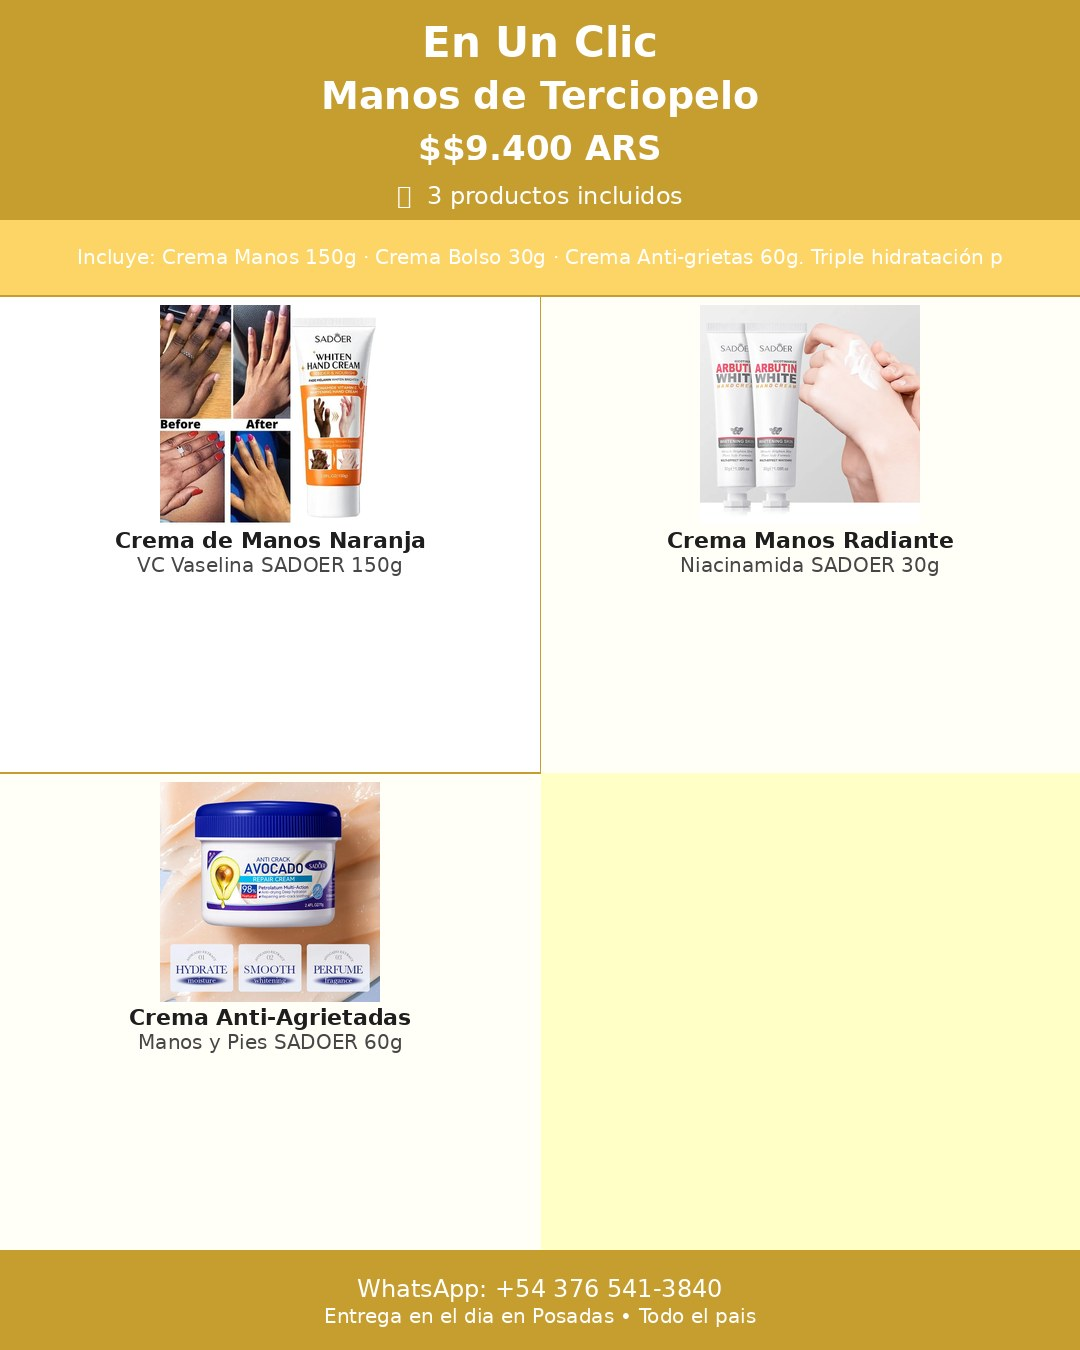
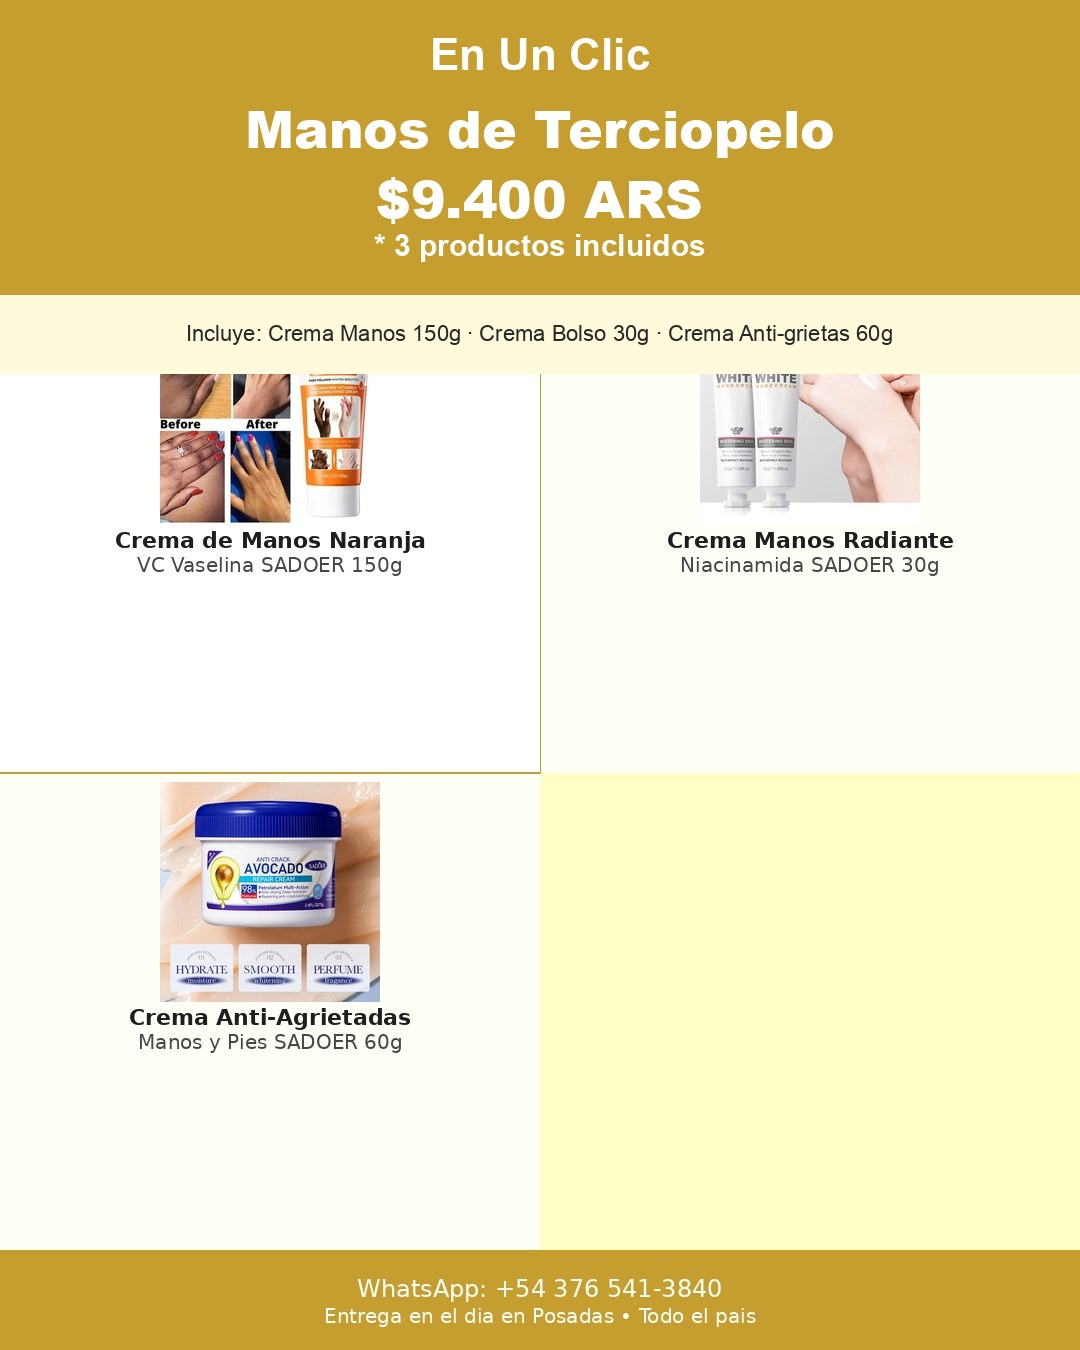
fix(images): pixel-based text wrap — elimina truncado en descripciones y doble $$ en precio

Changed region(s): [[0.0, 0.0, 1.0, 0.28]]

diff --git a/generate_previews.py b/generate_previews.py
@@ -147,6 +147,22 @@ def centered_text(draw, text, y, font_obj, color, width=W):
     tw = bbox[2] - bbox[0]
     draw.text(((width - tw) // 2, y), text, font=font_obj, fill=color)
 
+def pixel_wrap(text, draw, font, max_px):
+    """Wrap text at actual rendered pixel width — avoids cutoff on any font/size."""
+    words = text.split()
+    lines, cur = [], ""
+    for w in words:
+        test = cur + (" " if cur else "") + w
+        bb = draw.textbbox((0, 0), test, font=font)
+        if bb[2] > max_px and cur:
+            lines.append(cur)
+            cur = w
+        else:
+            cur = test
+    if cur:
+        lines.append(cur)
+    return lines
+
 def price_str(p):
     """$72.000  (punto como miles, sin doble $$)"""
     return f"${p:,.0f}".replace(",", ".")
@@ -179,10 +195,9 @@ def generate_combos_catalog():
     for i, combo in enumerate(combos):
         draw.text((margin_l, y + 10), combo["name"], font=f_name, fill=DARK_TEXT)
 
-        desc = combo["description"]
-        if len(desc) > 62:
-            desc = desc[:59] + "…"
-        draw.text((margin_l, y + 54), desc, font=f_desc, fill=LIGHT_TEXT)
+        desc_lines = pixel_wrap(combo["description"], draw, f_desc, 740)
+        for li, dl in enumerate(desc_lines[:3]):
+            draw.text((margin_l, y + 54 + li * 30), dl, font=f_desc, fill=LIGHT_TEXT)
 
         p_text = price_str(combo["price"])
         bbox   = draw.textbbox((0, 0), p_text, font=f_price)
@@ -201,8 +216,13 @@ def generate_combos_catalog():
 
 
 def fix_individual_headers():
-    """Repinta el header de cada ficha individual (corrige $$ y mantiene fotos)."""
-    HEADER_H = 295
+    """Repinta el header y banda de descripción de cada ficha individual."""
+    HEADER_H    = 295
+    DESC_BAND_H = 78
+    DESC_BG     = (255, 250, 220)  # champagne claro
+    f_desc_band = fnt(FONT_REG, 22)
+    MAX_DESC_PX = 900
+
     for combo in COMBOS:
         path = os.path.join(REPO_DIR, f"preview_combo-{combo['slug']}.jpg")
         if not os.path.exists(path):
@@ -211,11 +231,21 @@ def fix_individual_headers():
         img  = Image.open(path).convert("RGB")
         draw = ImageDraw.Draw(img)
 
+        # ── Header dorado ──
         draw.rectangle([0, 0, W, HEADER_H], fill=GOLD)
-        centered_text(draw, "En Un Clic",                          30,  fnt(FONT_BOLD,  44), WHITE)
-        centered_text(draw, combo["name"],                          90,  fnt(FONT_BLACK, 52), WHITE)
-        centered_text(draw, f"{price_str(combo['price'])} ARS",   160,  fnt(FONT_BLACK, 52), WHITE)
+        centered_text(draw, "En Un Clic",                               30,  fnt(FONT_BOLD,  44), WHITE)
+        centered_text(draw, combo["name"],                               90,  fnt(FONT_BLACK, 52), WHITE)
+        centered_text(draw, f"{price_str(combo['price'])} ARS",        160,  fnt(FONT_BLACK, 52), WHITE)
         centered_text(draw, f"* {combo['productos']} productos incluidos", 228, fnt(FONT_BOLD, 30), WHITE)
+
+        # ── Banda de descripción — borra texto viejo y redibuja completo ──
+        draw.rectangle([0, HEADER_H, W, HEADER_H + DESC_BAND_H], fill=DESC_BG)
+        lines = pixel_wrap(combo["description"], draw, f_desc_band, MAX_DESC_PX)
+        if len(lines) == 1:
+            centered_text(draw, lines[0], HEADER_H + 26, f_desc_band, DARK_TEXT)
+        else:
+            centered_text(draw, lines[0], HEADER_H + 12, f_desc_band, DARK_TEXT)
+            centered_text(draw, lines[1], HEADER_H + 42, f_desc_band, DARK_TEXT)
 
         img.save(path, "JPEG", quality=92)
         print(f"  ✓ preview_combo-{combo['slug']}.jpg")
